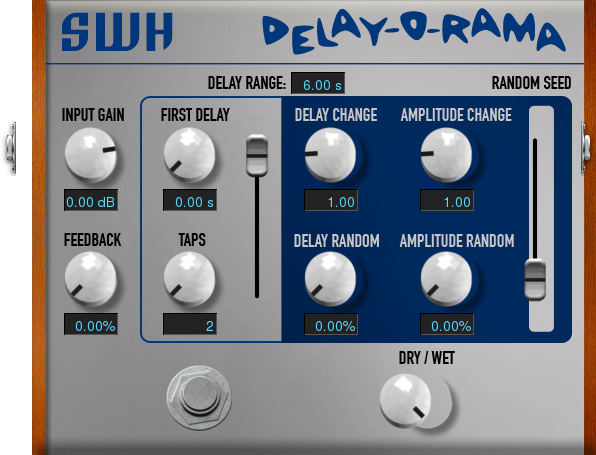
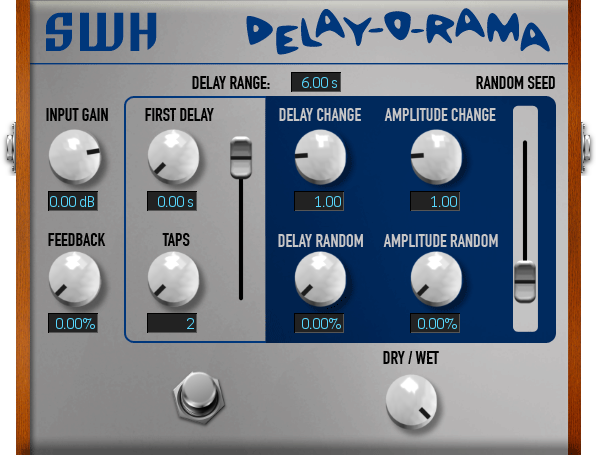
Fixup delayorama modgui

diff --git a/plugins/delayorama-swh.lv2/modgui/delayorama.css b/plugins/delayorama-swh.lv2/modgui/delayorama.css
@@ -31,6 +31,7 @@
         width: 565px;
         height: 456px;
         border-radius: 0;
+        position: absolute;
     }
      .swh-delayorama .mod-control-group {
       top: 0;
@@ -40,22 +41,22 @@
       position: relative;
      }
     .swh-delayorama .mod-control-group#wet {
-      left: 355px;
-      top: 365px;
+      left: 361px;
+      top: 366px;
       position: absolute;
       width: 70px !important;
       height: 70px !important;
     }
 
     .swh-delayorama .mod-control-group.group1 {
-        margin-top: 119px;
+        margin-top: 121px;
         margin-left: 24px;
         float: left;
         width: 217px !important;
     }
     .swh-delayorama .mod-control-group.group2 {
-        margin-top: 119px;
-        margin-left: 23px;
+        margin-top: 121px;
+        margin-left: 29px;
         float: left;
         width: 255px !important;
     }
@@ -85,9 +86,6 @@
       cursor: pointer;
       position:relative;
       overflow:hidden;
-    }
-    .swh-delayorama .mod-light {
-        top: 390px;
     }
     .swh-delayorama .mod-slider {
       position: relative;

diff --git a/plugins/delayorama-swh.lv2/modgui/icon-delayorama.html b/plugins/delayorama-swh.lv2/modgui/icon-delayorama.html
@@ -2,7 +2,6 @@
     <div mod-role="drag-handle" class="mod-drag-handle"></div>
     <div class="mod-plugin-author"><h1>{{author}}</h1></div>
     <div class="mod-plugin-name"><h1>{{label}}</h1></div>
-    <div class="mod-light on" mod-role="bypass-light"></div>
     <div class="mod-control-group group1">
         <div class="mod-knob">
             <div class="mod-knob-image" mod-role="input-control-port" mod-port-symbol="gain"></div>
